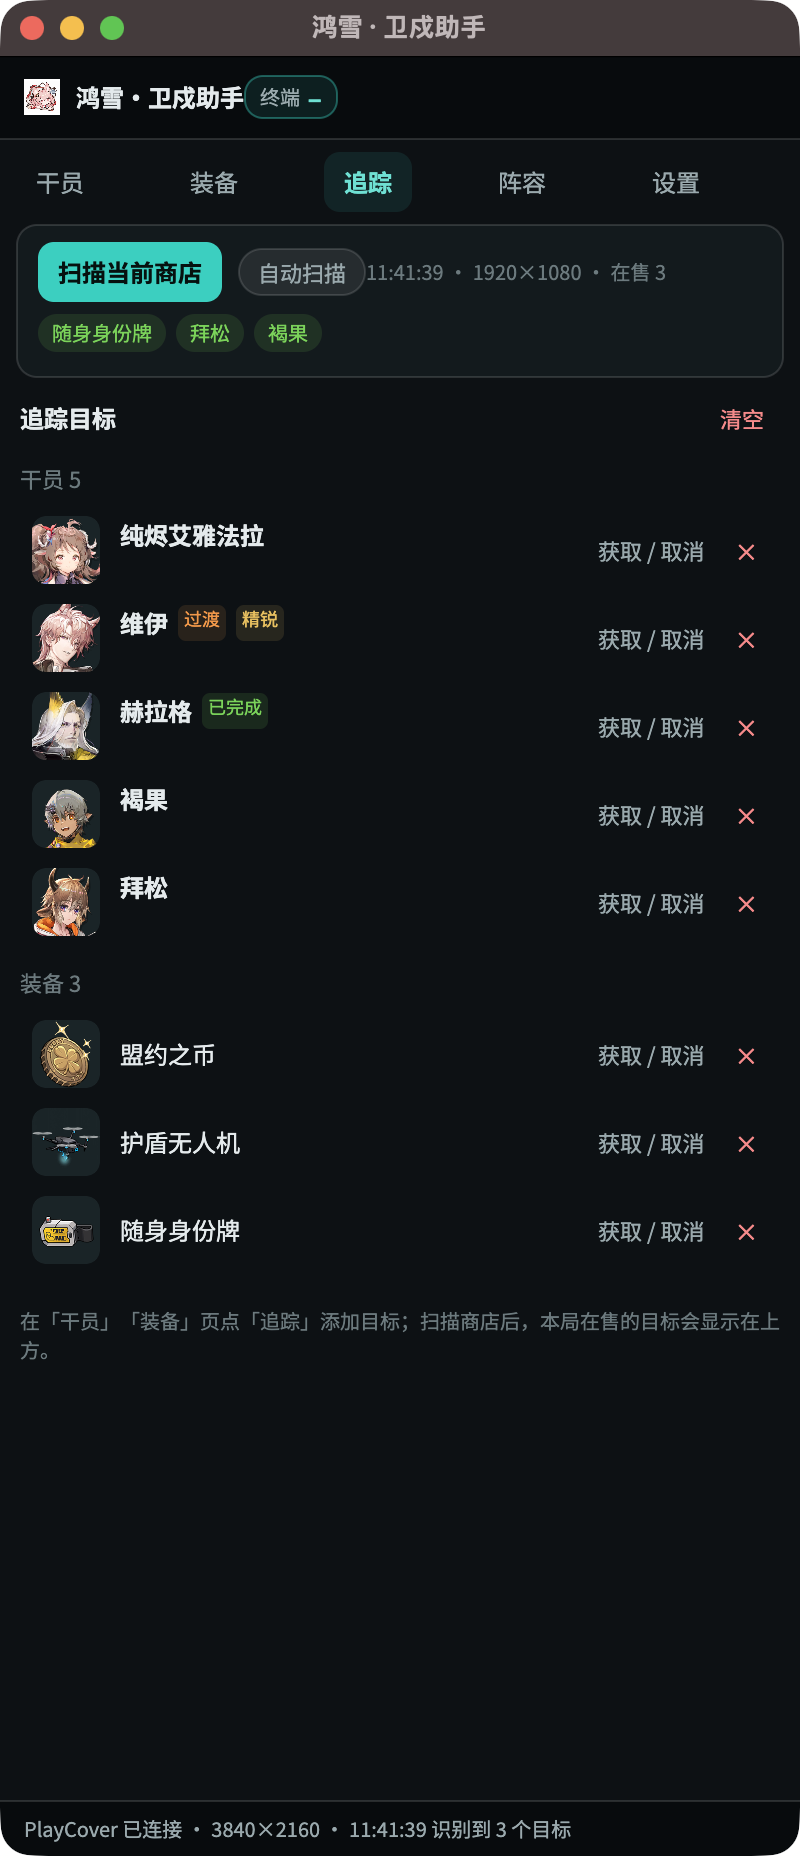
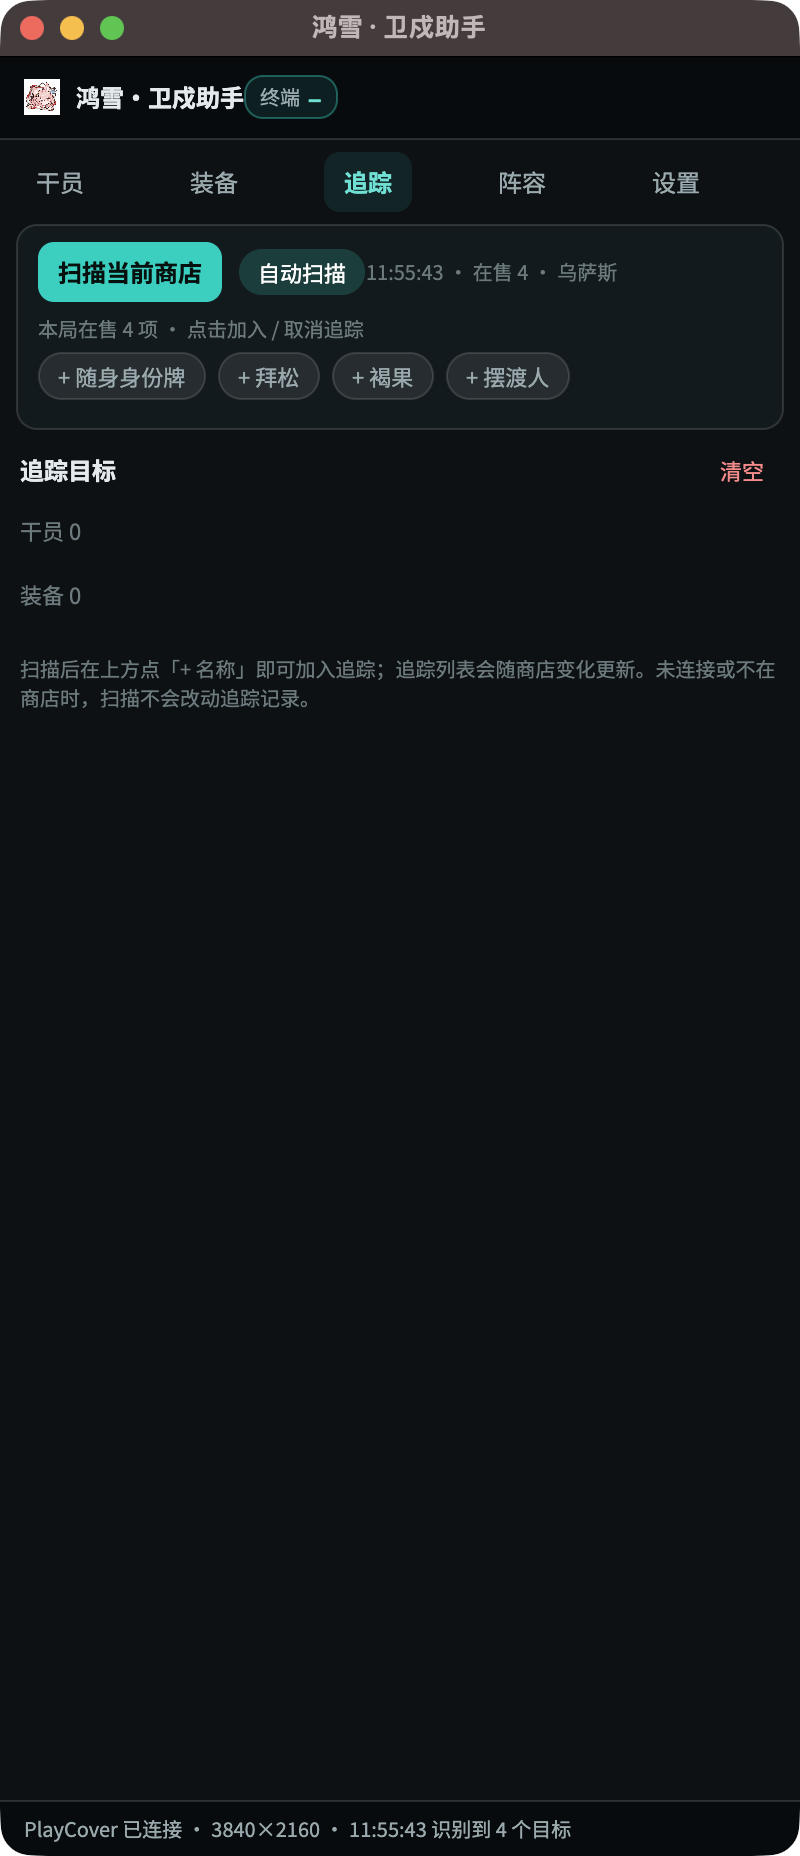
fix(mac): 首次启动即可用——扫描返回全部在售商品并支持一键追踪
之前 macOS 版的扫描只返回已追踪目标：全新安装时 tracking.json 为空，
“扫描当前商店”永远显示「在售 0」，看起来像只能测试连接。

- ShopScanService 改为把完整目录传给 ShopReader，返回本局在售的全部商品；
  UI 负责区分是否已追踪。
- 追踪页新增「本局在售」区域：每个商品一个 chip，「+ 名称」点击加入追踪，
  已追踪显示绿色「✓ 名称」，点击可取消；状态栏显示在售数量与当前主题。
- 启动时自动扫描（每 3 秒），可在追踪页「自动扫描」关闭。
- 商店主题自动识别的绝对阈值在 macOS 侧放宽到 30（4K PlayCover 帧正确主题约 25，
  1080p 参考图约 4~5），并要求与次优主题相差 ≥8；默认仍关闭，手动选择不受影响。
- 未连接时状态显示「等待游戏连接…」，不再显示长错误串。
- 版本 0.2.0；MacProbe 增加追踪写入/重读往返测试，截图更新到 docs/images/mac。

diff --git a/src/ASPAssistant.Mac/Views/TrackingPage.axaml.cs b/src/ASPAssistant.Mac/Views/TrackingPage.axaml.cs
@@ -9,11 +9,28 @@ using CommunityToolkit.Mvvm.ComponentModel;
 
 namespace ASPAssistant.Mac.Views;
 
+/// <summary>One item currently on sale in the shop, with its tracking state.</summary>
+public partial class ShopItemViewModel : ObservableObject
+{
+    public required string Name { get; init; }
+    public required TrackingType Type { get; init; }
+
+    [ObservableProperty]
+    [NotifyPropertyChangedFor(nameof(Label))]
+    private bool _isTracked;
+
+    public string Label => IsTracked ? $"✓ {Name}" : $"+ {Name}";
+}
+
 /// <summary>Page state: the shared tracking view model plus the last shop-scan results.</summary>
 public partial class TrackingPageViewModel : ObservableObject
 {
     public required TrackingViewModel Tracking { get; init; }
-    public ObservableCollection<string> MatchedNames { get; } = [];
+    public required ShopScanService Scanner { get; init; }
+    public ObservableCollection<ShopItemViewModel> ShopItems { get; } = [];
+
+    public bool HasShopItems => ShopItems.Count > 0;
+    public int ShopItemCount => ShopItems.Count;
 
     [ObservableProperty]
     private bool _autoScan;
@@ -27,7 +44,14 @@ public partial class TrackingPageViewModel : ObservableObject
         else Scanner.Stop();
     }
 
-    public required ShopScanService Scanner { get; init; }
+    public void ReplaceShopItems(IEnumerable<(string Name, TrackingType Type, bool IsTracked)> items)
+    {
+        ShopItems.Clear();
+        foreach (var (name, type, isTracked) in items)
+            ShopItems.Add(new ShopItemViewModel { Name = name, Type = type, IsTracked = isTracked });
+        OnPropertyChanged(nameof(HasShopItems));
+        OnPropertyChanged(nameof(ShopItemCount));
+    }
 }
 
 public partial class TrackingPage : UserControl
@@ -52,14 +76,32 @@ public partial class TrackingPage : UserControl
 
         state.Scanner.Scanned += OnScanned;
         state.TrackingVm.PropertyChanged += (_, _) => RefreshScanStatus();
+
+        // Start sampling automatically when a device connection is configured, so opening the
+        // app next to a running game immediately shows what is on sale.
+        if (state.Connection.IsDeviceCapture) _vm.AutoScan = true;
     }
 
     private void OnScanned(ShopScanResult result) => Dispatcher.UIThread.Post(() =>
     {
-        _vm.MatchedNames.Clear();
-        foreach (var item in result.Items) _vm.MatchedNames.Add(item.Name);
+        _vm.ReplaceShopItems(result.Items.Select(item => (
+            item.Name,
+            ResolveType(item.Name),
+            _state.TrackingVm.IsTracked(item.Name))));
         RefreshScanStatus();
     });
+
+    private string ThemeName => ThemeLabel(_vm.Scanner.Last?.Theme ?? _state.ShopTheme);
+
+    private static string ThemeLabel(GameShopTheme theme) => theme switch
+    {
+        GameShopTheme.Ursus => "乌萨斯",
+        GameShopTheme.Closure => "可露希尔",
+        _ => "终端"
+    };
+
+    private TrackingType ResolveType(string name) =>
+        _state.Operators.Any(o => o.Name == name) ? TrackingType.Operator : TrackingType.Equipment;
 
     private void RefreshScanStatus()
     {
@@ -69,8 +111,11 @@ public partial class TrackingPage : UserControl
             return;
         }
         _vm.ScanStatus = last.Error is { Length: > 0 } error
-            ? error
-            : $"{last.At:HH:mm:ss} · {last.Width}×{last.Height} · 在售 {last.Items.Count}";
+            ? (error.Contains("PlayCover", StringComparison.Ordinal) || error.Contains("ADB", StringComparison.Ordinal)
+                || error.Contains("无法截图", StringComparison.Ordinal)
+                ? "等待游戏连接…"
+                : error)
+            : $"{last.At:HH:mm:ss} · 在售 {last.Items.Count} · {ThemeName}";
     }
 
     private async void OnScanOnce(object? sender, RoutedEventArgs e)
@@ -78,6 +123,15 @@ public partial class TrackingPage : UserControl
         _vm.ScanStatus = "识别中…";
         await _state.Scanner.ScanOnceAsync();
         RefreshScanStatus();
+    }
+
+    private async void OnToggleShopItem(object? sender, RoutedEventArgs e)
+    {
+        if (sender is not Button button || button.DataContext is not ShopItemViewModel item) return;
+        if (_state.TrackingVm.IsTracked(item.Name)) _state.TrackingVm.RemoveTracking(item.Name);
+        else _state.TrackingVm.AddTracking(item.Name, item.Type);
+        item.IsTracked = _state.TrackingVm.IsTracked(item.Name);
+        await _state.SaveTrackingAsync();
     }
 
     private async void OnToggleAcquired(object? sender, RoutedEventArgs e)

diff --git a/src/ASPAssistant.Mac/ShopScanService.cs b/src/ASPAssistant.Mac/ShopScanService.cs
@@ -18,14 +18,15 @@ public sealed record ShopScanResult(
 
 /// <summary>
 /// Periodic shop scan for the macOS build: capture the game (PlayCover or ADB),
-/// detect the shop theme, OCR the name strip and report the tracked items on sale.
+/// OCR the name strip and report every catalogue item on sale. Filtering against the
+/// tracking list happens in the UI, so a scan is useful even before anything is tracked.
 /// </summary>
 public sealed class ShopScanService : IDisposable
 {
     private readonly Func<byte[]?> _capture;
     private readonly ShopReader _reader;
     private readonly GameShopThemeDetector _themeDetector;
-    private readonly Func<IReadOnlyList<string>> _trackedNames;
+    private readonly Func<IReadOnlyList<string>> _catalogNames;
     private readonly Timer _timer;
     private int _busy;
     private bool _disposed;
@@ -45,12 +46,12 @@ public sealed class ShopScanService : IDisposable
     public bool IsRunning => _timer.Enabled;
 
     public ShopScanService(Func<byte[]?> capture, ShopReader reader,
-        GameShopThemeDetector themeDetector, Func<IReadOnlyList<string>> trackedNames, int intervalMs = 2500)
+        GameShopThemeDetector themeDetector, Func<IReadOnlyList<string>> catalogNames, int intervalMs = 3000)
     {
         _capture = capture;
         _reader = reader;
         _themeDetector = themeDetector;
-        _trackedNames = trackedNames;
+        _catalogNames = catalogNames;
         _timer = new Timer(intervalMs);
         _timer.Elapsed += (_, _) => _ = ScanOnceAsync();
     }
@@ -81,14 +82,16 @@ public sealed class ShopScanService : IDisposable
             }
 
             var (width, height) = ImageBytes.GetDimensions(frame);
-            var theme = AutomaticThemeDetection ? _themeDetector.Detect(frame) : null;
+            // Looser absolute threshold than Windows: 4K PlayCover frames downscaled to 1080p
+            // score ~25 for the correct theme (runner-up ~39); the gap check still guards it.
+            var theme = AutomaticThemeDetection ? _themeDetector.Detect(frame, maxScore: 30) : null;
             if (theme is { } detected)
             {
                 _reader.Theme = detected;
                 ThemeDetected?.Invoke(detected);
             }
 
-            var items = await _reader.ReadAsync(frame, width, height, _trackedNames());
+            var items = await _reader.ReadAsync(frame, width, height, _catalogNames());
             var result = new ShopScanResult(DateTime.Now, items, theme, null, frame, width, height);
             Publish(result);
             ItemsRecognized?.Invoke(items);

diff --git a/tools/MacProbe/Program.cs b/tools/MacProbe/Program.cs
@@ -41,11 +41,30 @@ foreach (var (file, theme, expected) in samples)
     Console.WriteLine($"{(ok ? "PASS" : "FAIL")} {file} ({w}x{h}) → {got.Count} 项: {string.Join(" / ", got)}");
 }
 
+// Tracking round-trip: add -> save -> reload, the path behind the in-app "追踪" buttons.
+var tempSettings = Path.Combine(Path.GetTempPath(), "aspa-macprobe-" + Guid.NewGuid().ToString("N"));
+Directory.CreateDirectory(tempSettings);
+var store = new ASPAssistant.Core.Data.JsonDataStore(dataDir);
+var (covenants, jobChangeMap) = await store.LoadCovenantsAsync();
+var calculator = new ASPAssistant.Core.Services.CovenantCalculator(operators, covenants, jobChangeMap);
+var settingsManager = new ASPAssistant.Core.Data.SettingsManager(tempSettings);
+var trackingVm = new ASPAssistant.Core.ViewModels.TrackingViewModel();
+trackingVm.AddTracking("褐果", TrackingType.Operator);
+trackingVm.AddTracking("随身身份牌", TrackingType.Equipment);
+await settingsManager.SaveTrackingStateAsync(trackingVm.CaptureState());
+var reloaded = await settingsManager.LoadTrackingStateAsync(calculator.EquipmentRules);
+var roundTrip = reloaded.Entries.Any(e => e.Name == "褐果" && e.Type == TrackingType.Operator)
+    && reloaded.Entries.Any(e => e.Name == "随身身份牌" && e.Type == TrackingType.Equipment)
+    && !reloaded.Entries.Any(e => e.Name == "拜松");
+Console.WriteLine(roundTrip ? "TRACKING ROUND-TRIP PASS" : "TRACKING ROUND-TRIP FAIL");
+if (!roundTrip) failures++;
+
 var detector = new GameShopThemeDetector(Path.Combine(dataDir, "shop_theme_refs.json"));
 foreach (var file in new[] { "shop-terminal-tier1-color.png", "shop-frontier-tier1-color.png" })
 {
     var bytes = File.ReadAllBytes(Path.Combine(testDir, file));
-    Console.WriteLine($"theme {file} → {detector.Detect(bytes)}");
+    Console.WriteLine($"theme {file} → {detector.Detect(bytes)}  scores: "
+        + string.Join(", ", detector.Score(bytes).Select(x => $"{x.Theme}={x.Score:F1}")));
 }
 
 ocr.Dispose();

diff --git a/src/ASPAssistant.Core/Services/GameShopThemeDetector.cs b/src/ASPAssistant.Core/Services/GameShopThemeDetector.cs
@@ -42,7 +42,12 @@ public sealed class GameShopThemeDetector
     /// <summary>UI scaling factors the control may be rendered at.</summary>
     private static readonly double[] Scales = [1.0, 0.85, 1.1, 1.2, 1.3, 0.75, 1.4, 1.5, 1.65, 1.75, 1.9, 2.0, 2.2];
 
-    public GameShopTheme? Detect(byte[] screenshot)
+    /// <param name="maxScore">
+    /// Absolute match distance a theme must stay under. The Windows build keeps 22 (1080p references);
+    /// the macOS PlayCover path passes a looser value because 4K frames downscaled to 1080p blur the
+    /// fingerprint (measured: correct theme ≈25, runner-up ≈39, gap still wide).
+    /// </param>
+    public GameShopTheme? Detect(byte[] screenshot, double maxScore = 22)
     {
         using var image = Raster.Decode(screenshot);
         if (image is null) return null;
@@ -60,7 +65,7 @@ public sealed class GameShopThemeDetector
             }
         }
         var ranked = scores.OrderBy(score => score.Score).ToArray();
-        return ranked[0].Score <= 22 && ranked[1].Score - ranked[0].Score >= 8 ? ranked[0].Theme : null;
+        return ranked[0].Score <= maxScore && ranked[1].Score - ranked[0].Score >= 8 ? ranked[0].Theme : null;
     }
 
     private static byte[] Fingerprint(Raster image, double scale)

diff --git a/tools/PlayCoverProbe/Program.cs b/tools/PlayCoverProbe/Program.cs
@@ -28,7 +28,7 @@ Console.WriteLine($"captured {width}x{height} -> {outPath}");
 
 var dataDir = Path.Combine(root, "data");
 var detector = new GameShopThemeDetector(Path.Combine(dataDir, "shop_theme_refs.json"));
-Console.WriteLine($"theme(1920): {detector.Detect(frame)}");
+Console.WriteLine($"theme(1920, threshold 30): {detector.Detect(frame, 30)}");
 Console.WriteLine("scores: " + string.Join(", ", detector.Score(frame).Select(s => $"{s.Theme}={s.Score:F1}")));
 var full = connection.CaptureDeviceScreen(4000);
 if (full is not null)

diff --git a/src/ASPAssistant.Mac/AppState.cs b/src/ASPAssistant.Mac/AppState.cs
@@ -146,7 +146,7 @@ public sealed class AppState : IDisposable
             capture: () => state.Capture.CaptureScreen(),
             reader: reader,
             themeDetector: detector,
-            trackedNames: () => state.TrackedNames.ToList());
+            catalogNames: () => shopNames);
         state.Scanner = scanner;
         scanner.AutomaticThemeDetection = await settings.LoadAutomaticGameThemeAsync();
         scanner.ThemeDetected += theme =>

diff --git a/docs/mac-port.md b/docs/mac-port.md
@@ -10,7 +10,8 @@ Windows 版本保持原样可用：`src/ASPAssistant.App` 仍按 `net8.0-windows
 
 <p align="center">
   <img src="images/mac/operators.png" width="240" alt="macOS 干员浏览" />
-  <img src="images/mac/tracking.png" width="240" alt="macOS 追踪与在售标记" />
+  <img src="images/mac/tracking.png" width="240" alt="macOS 追踪页：本局在售商品" />
+  <img src="images/mac/tracking-confirmed.png" width="240" alt="macOS 追踪页：已加入追踪的商品" />
   <img src="images/mac/settings.png" width="240" alt="macOS 连接设置" />
 </p>
 
@@ -24,7 +25,9 @@ Windows 版本保持原样可用：`src/ASPAssistant.App` 仍按 `net8.0-windows
 | 已保存阵容列表（查看干员、一键追踪、删除） | ✅ |
 | 通过 PlayCover MaaTools 连接游戏（截图 + 触摸） | ✅ |
 | 通过 ADB 连接模拟器 | ✅（与 Windows 同一套 MaaAdbController 逻辑） |
-| 商店识别：主题判定 + 名称栏 OCR + 本局在售目标 | ✅ |
+| 商店识别：名称栏 OCR + **本局全部在售商品列表**（点一下加入追踪） | ✅ |
+| 自动扫描（启动即开始，可在追踪页关闭） | ✅ |
+| 商店主题：手动选择（自动指纹识别可选，PlayCover 下阈值放宽） | ✅ |
 | 深色/浅色主题、识别主题选择、连接设置 | ✅ |
 | 截图录入 Ban 位 / 敌方首领识别 | ⛔ 未移植 |
 | 站位规划 / 地图模拟 / 游戏内叠加层 | ⛔ 未移植 |
@@ -92,8 +95,9 @@ scripts/build-mac.sh --run    # 构建 + 打 bundle + 打开
    Bundle ID `com.hypergryph.arknights`，点 **测试连接**。成功时状态栏显示
    `PlayCover 已连接 · <宽>×<高>`。
 4. 游戏分辨率需为 16∶9 横屏（PlayCover 显示设置里选 1080p），否则会提示“请设置为横屏 16∶9”。
-5. 打开游戏商店 → 助手「追踪」页点 **扫描当前商店**，或打开 **自动扫描**（每 2.5 秒一次）。
-   识别出的在售目标会以绿色标签显示在扫描卡片里。
+5. 打开游戏商店 → 助手启动时会自动扫描（每 3 秒）；也可点 **扫描当前商店** 手动刷新。
+   卡片里会列出**本局在售的全部商品**，点「+ 名称」加入追踪，已追踪的显示为绿色「✓ 名称」。
+   不在商店或未连接时只提示、不改动追踪记录。
 
 ## 验证记录（2026-11-14）
 
@@ -122,7 +126,8 @@ scripts/build-mac.sh --run    # 构建 + 打 bundle + 打开
   移植时已把“点击”改成 down+up、把“滑动”改成 down→move×8→up 的触摸序列，因此 PlayCover 下点击和滑动可用；
   `ScrollInformationPanelDown` 也走这条路径。依赖滚轮补读的 Ban 识别流程本次尚未移植。
 - 商店识别沿用 16∶9、以 1080p 为基准的相对坐标；本机 4K PlayCover 实机已验证终端主题，其他分辨率/界面缩放仍需实机验证。
-- 商店主题自动识别在 PlayCover 4K 下不可靠（见上），默认关闭；请在设置页手动选主题。
+- 商店主题自动识别默认关闭（设置页可开）：PlayCover 4K 帧下正确主题得分约 25（1080p 参考图为 4~5），
+  因此 macOS 侧把绝对阈值放宽到 30，并要求与次优主题相差 ≥8；实测本机帧判定为 Ursus（乌萨斯簇）正确。
 - macOS 界面尚未实现游戏内叠加层（原 `OverlayWindow`），所以商店标记只在助手窗口内显示。
 - 自动更新、托盘、全局快捷键依赖 Windows API，macOS 版暂未提供。
 

diff --git a/CHANGELOG.md b/CHANGELOG.md
@@ -5,7 +5,9 @@
 - 新增 `src/ASPAssistant.Mac`：Avalonia 11 侧栏界面，复用 Core 的 ViewModel/数据/服务；`scripts/build-mac.sh` 生成自包含 `.app`。
 - Core 改为多目标 `net8.0-windows;net10.0`：Win32/GDI 代码用 `#if WINDOWS` 隔离，图像处理换成 SkiaSharp（`Services/Imaging/Raster.cs`），像素布局与颜色判据保持原样。
 - 游戏连接新增 `GameCaptureSource.PlayCover`，通过 MaaFramework `MaaPlayCoverController` 连接 PlayTools 的 MaaTools TCP 服务；截图与触摸与 ADB 共用控制器路径。
-- 新增商店扫描（主题判定 + 名称 OCR + 在售目标）与 macOS 设置页（连接、主题、深浅色）。
+- 新增商店扫描与 macOS 设置页（连接、主题、深浅色）：扫描返回本局在售的**全部**商品（不再只返回已追踪项），
+  可在追踪页直接点「+ 名称」加入追踪；启动时自动扫描，每 3 秒一次。
+- 主题指纹识别在 macOS 侧放宽绝对阈值到 30（4K PlayCover 帧正确主题约 25），默认关闭、可在设置页开启。
 - 验证：6 张真实商店样本 OCR 全部通过（与 `SHOP_SAMPLES.md` 一致）；WPF 端 `net8.0-windows` 仍可编译。
 - 未移植：Ban 位录入、站位规划、叠加层、阵容编辑器、攻略导入、自动更新、全局快捷键。
 

diff --git a/README.md b/README.md
@@ -145,7 +145,8 @@ scripts/build-mac.sh --run
 ```
 
 已支持：干员/装备浏览与筛选、追踪列表、已保存阵容、PlayCover/ADB 连接、商店名称 OCR
-（识别本局在售目标，已在 PlayCover 4K 实机联调）、深浅主题与连接设置。商店主题自动识别在 PlayCover 4K 下不可靠，默认手动选择。
+（直接列出**本局在售的全部商品**，点一下加入追踪；已在 PlayCover 4K 实机联调）、自动扫描、
+深浅主题与连接设置。商店主题自动识别在 PlayCover 4K 下不可靠，默认手动选择。
 未移植：Ban 位截图录入、站位规划/地图模拟、游戏内叠加层、阵容编辑器、攻略导入、自动更新与全局快捷键。Windows 版本不受影响。
 
 设置与数据目录为 `~/Library/Application Support/ASPAssistant/`，与 Windows 端的 JSON 格式一致。
